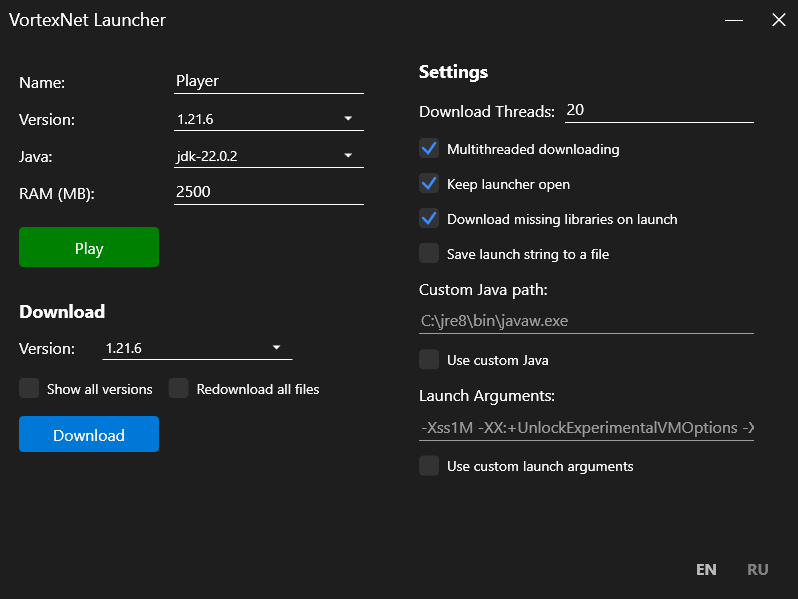
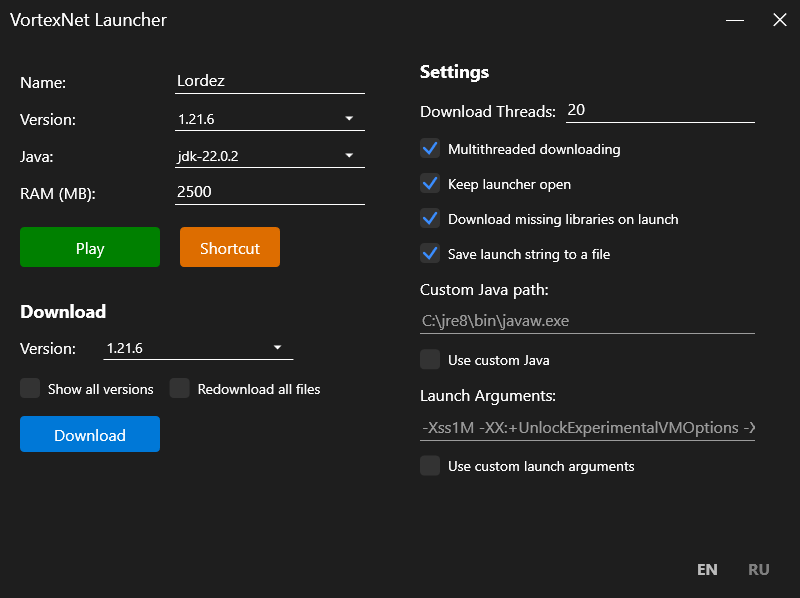
Update readme

diff --git a/README.md b/README.md
@@ -1,4 +1,4 @@
-## Vortex Minecraft Launcher (WPF Edition)
+## Vortex Minecraft Launcher (WPF Edition)
 
 [![English](https://img.shields.io/badge/Language-English-blue)](README.md)
 [![Русский](https://img.shields.io/badge/Language-Русский-red)](README_RU.md)
@@ -18,6 +18,7 @@ It differs from the original by having an improved interface and lacking some fe
 * Supports all Minecraft versions
 * Supports Fabric and Forge (but you have to install them yourself)
 * Downloads all Minecraft versions
+* Can create shortcuts for direct launch (javaw + arguments)
 * ~~Downloads missing libraries~~
 * Doesn't require Minecraft account
 * Doesn't require Java to work

diff --git a/README_RU.md b/README_RU.md
@@ -18,6 +18,7 @@
 * Поддерживает все версии Minecraft
 * Поддерживает Fabric и Forge (но их нужно установить самому)
 * Загружает все версии Minecraft
+* Может создавать ярлыки для прямого запуска
 * ~~Загружает отсутствующие библиотеки~~
 * Не требует учетной записи Minecraft
 * Не требует Java для работы
